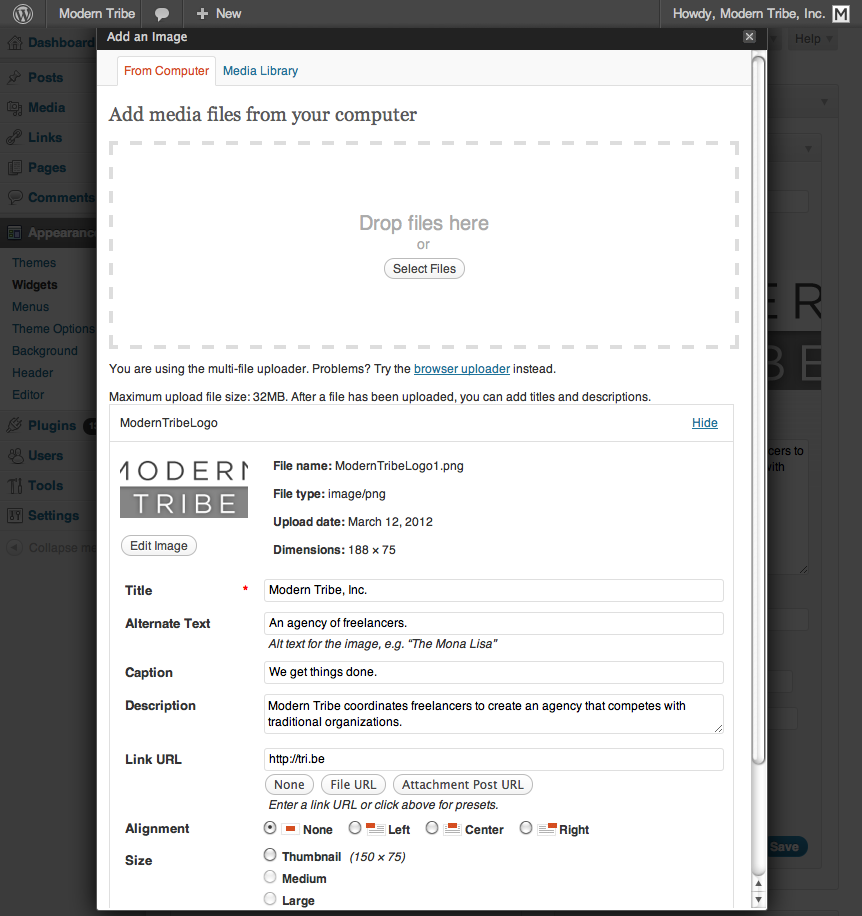
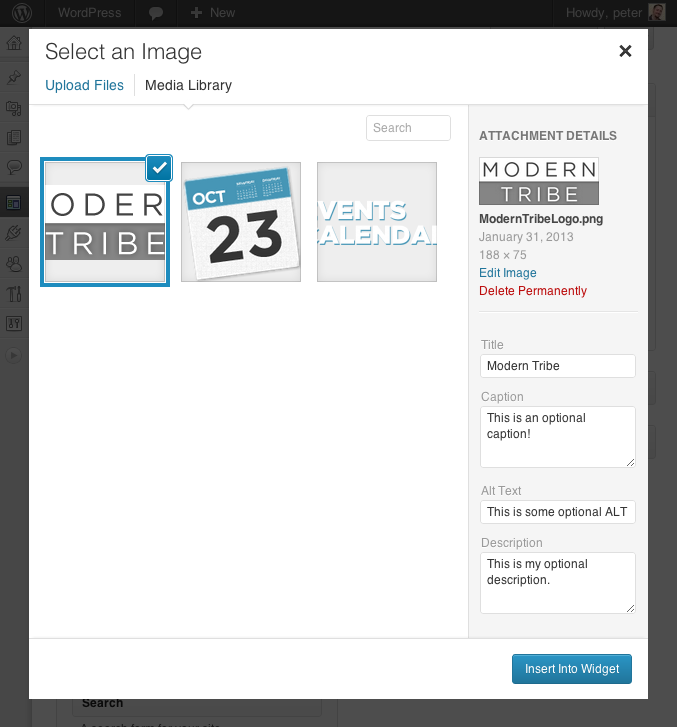
Update screenshots.
git-svn-id: https://plugins.svn.wordpress.org/image-widget/trunk@661820 b8457f37-d9ea-0310-8a92-e5e31aec5664

diff --git a/image-widget.php b/image-widget.php
@@ -6,9 +6,6 @@ Description: Simple image widget that uses native WordPress upload thickbox to a
 Author: Modern Tribe, Inc.
 Version: 4.0
 Author URI: http://tri.be
-
-TODO: Audit translations?
-TODO: Update screenshots
 */
 
 // Block direct requests
